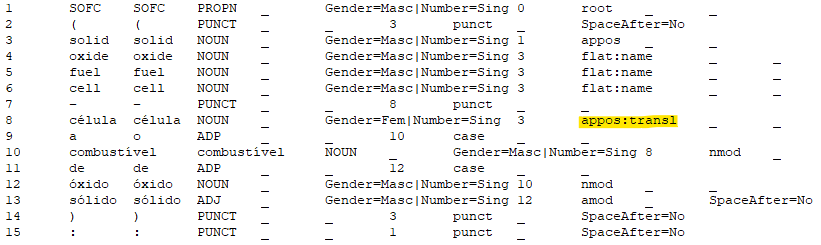
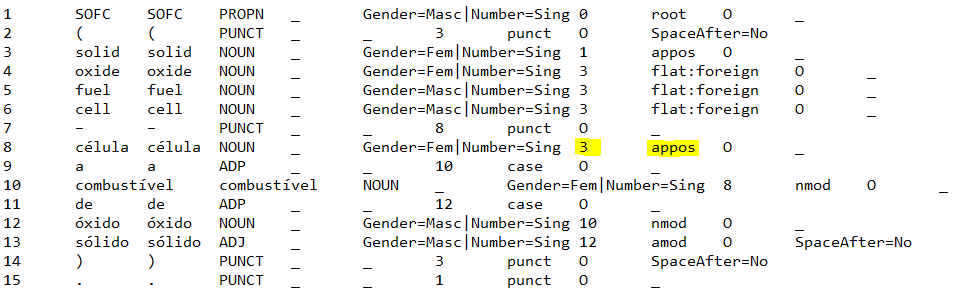
aline changes 16.03.21

diff --git a/main.tex b/main.tex
@@ -2877,7 +2877,7 @@ São 17 as classes gramaticais em UD. Elas são atribuídas com base no contexto
 
 		Ver também: \fullref{sec:mwe}
 
-		Também estão em relação de aposto endereços de internet e e-mails, como em \fullref{dep:email}, quando há a presença dos dois pontos. Caso não haja pontuação, a classificação será de \emph{nmod}. (Ver \fullref{sec:nomeseguidodenome}
+		Também estão em relação de aposto endereços de internet e e-mails, como em \fullref{dep:email}, quando há a presença dos dois pontos. Caso não haja pontuação, a classificação será \emph{nmod}. (Ver \fullref{sec:nomeseguidodenome}
 
 		\begin{figure}[H]
 				\centering
@@ -3399,6 +3399,8 @@ São 17 as classes gramaticais em UD. Elas são atribuídas com base no contexto
 
 				two-step \emph{sintering}
 
+				solid \emph{oxide fuel cell}
+
 \chapter{Frases difíceis}
 \hyperlink{toc}{Ir para tabela de conteúdos\\}
 
@@ -3728,7 +3730,7 @@ São 17 as classes gramaticais em UD. Elas são atribuídas com base no contexto
 
 		\subsection{Endereços de internet, e-mails etc.}
 		
-			Endereços de internet, e-mails etc. são anotados como \emph{NOUN}. Com relação à função sintática, em geral estarão envolvidos em estrutura de aposto (Ver \fullref{sec:aposto}).
+			Endereços de internet, e-mails etc. são anotados como \emph{NOUN}. Com relação à função sintática, podem ser \emph{nmod} ou {appos}, dependendo da pontuação que os acompanham (Ver \fullref{sec:aposto}).
 
 		\subsection{Enumerações, porcentagens e parênteses}
 
@@ -3748,7 +3750,25 @@ São 17 as classes gramaticais em UD. Elas são atribuídas com base no contexto
 
 			\subsubsection{\emph{appos}}\label{sec:nomeappos}
 
-				Utilizado quando o segundo nome especifica um tipo do primeiro nome. Ver também: \fullref{sec:aposto}
+				Utilizado nos casos típicos em que o segundo nome especifica um tipo do primeiro nome; em casos de abreviação. Ver também: \fullref{sec:aposto}
+
+				empresa Doris Engenharia, \emph{subsidiária} da Doris Engineering,
+
+				sócios-gerentes da empresa, \emph{profissionais} com ampla experiência em projetos
+
+				altas concentrações de compostos aromáticos (\emph{BTX} 209 µg/g e HPAs 1093 µg/g)
+
+				ramnolipídeo, um \emph{surfactante} biodegradável com aplicações em diversas áreas
+
+				Fundação Universidade Federal de o Rio Grande (\emph{FURG})
+
+				hexametilendiamina (\emph{HMDA})
+
+				Laboratório de Biotecnologia Microbiana (\emph{LaBiM})
+
+				Petróleo Brasileiro S/A (\emph{Petrobras})
+
+				HPAs (\emph{hidrocarbonetos} poliaromáticos)
 
 			\subsubsection{\emph{compound}}\label{sec:nomecompound}
 
@@ -3770,9 +3790,9 @@ São 17 as classes gramaticais em UD. Elas são atribuídas com base no contexto
 	
 				desvio \emph{padrão}
 
-				poli(bisfenol \emph{A-co-epicloridrina})
+				poli(\emph{bisfenol} \emph{A-co-epicloridrina})
 
-				1,2 milhão de barris \emph{/ dia}
+				1,2 milhão de barris \emph{/ dia} (\say{barris} é \emph{nmod} de \say{milhão})
 
 				tert-butanol \emph{60 \%}
 
@@ -3893,7 +3913,7 @@ São 17 as classes gramaticais em UD. Elas são atribuídas com base no contexto
 				
 		\subsection{Referências bibliográficas, figuras e tabelas}	
 			
-			As referências bibliográficas que ocorrem no fim de uma frase são filhas do \emph{root} da sentença e recebem deprel \emph{parataxis}, conforme a \fullref{fig:refbibliofinal}. Ver também: \fullref{sec:nomeflatname}.
+			As referências bibliográficas que ocorrem no fim de uma frase são filhas do \emph{root} da sentença e recebem deprel \emph{parataxis}, conforme a \fullref{fig:refbibliofinal} Ver também: \fullref{sec:nomeflatname}.
 			
 				\begin{figure}[H]
 				    	\centering

diff --git a/README.md b/README.md
@@ -5,7 +5,7 @@ Repositório de trabalho para preparação da Documentação UD em português (e
 Para consultar a última versão da documentação:
 [http://comcorhd.letras.puc-rio.br/Documenta-o-UD-PT/](http://comcorhd.letras.puc-rio.br/Documenta-o-UD-PT/)
 
-* [Para lançar nova versão](#para-lancar-nova-versao)
+* [Para lançar nova versão](#para-lançar-nova-versão)
 * [Guidelines](#guidelines)
     * [Chapter, section, subsection, label, caption e fullref](#chapter-section-subsection-label-caption-e-fullref)
     * [Aspas e itálico](#aspas-e-itálico)
